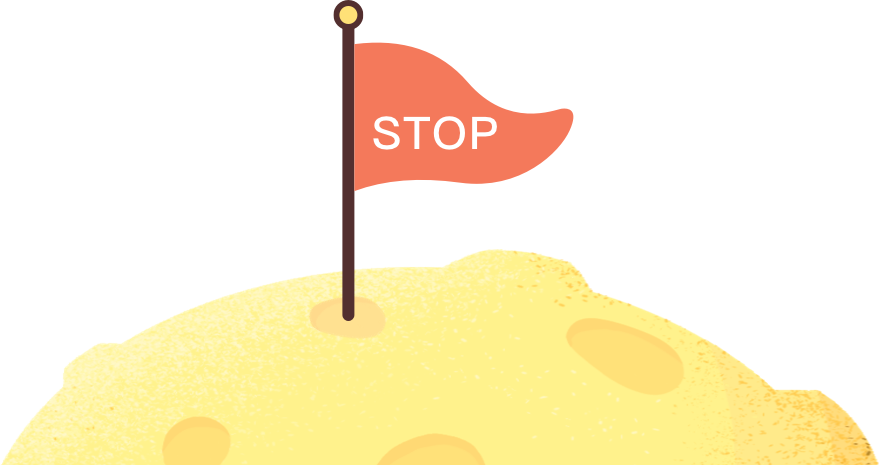
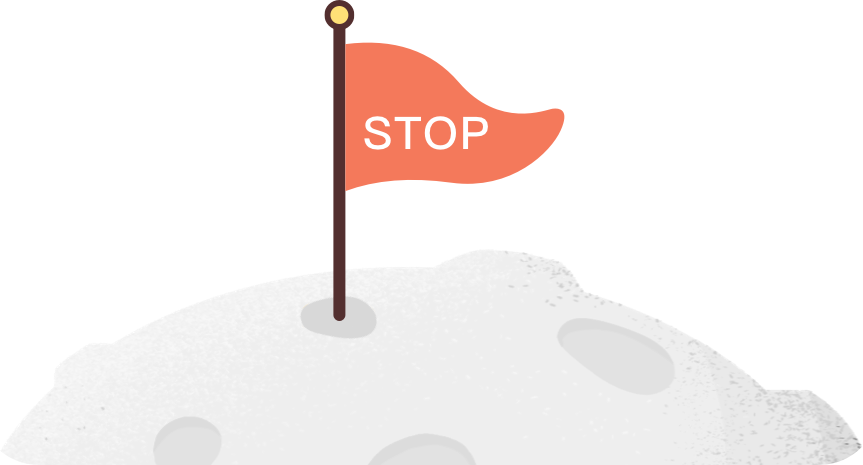
配色图片调整

diff --git a/src/components/vote/global/active-pause.vue b/src/components/vote/global/active-pause.vue
@@ -58,7 +58,7 @@ export default {
     justify-content: center;
     .active-stop-content {
       position: relative;
-      width: px2rem(586px);
+      width: px2rem(575px);
       border-radius: px2rem(8px);
       box-sizing: border-box;
       pointer-events: auto;
@@ -72,9 +72,9 @@ export default {
         font-weight: bold;
       }
       .img-bg {
-        width: px2rem(586px);
+        width: px2rem(575px);
         height: px2rem(310px);
-        @include img-retina('~@/assets/vote/active-pause@2x.png', '~@/assets/vote/active-pause@3x.png', px2rem(586px), px2rem(310px));
+        @include img-retina('~@/assets/vote/active-pause@2x.png', '~@/assets/vote/active-pause@3x.png', px2rem(575px), px2rem(310px));
         background-repeat: no-repeat;
         background-position: bottom;
       }

diff --git a/src/components/vote/global/active-stop.vue b/src/components/vote/global/active-stop.vue
@@ -59,7 +59,7 @@ export default {
     justify-content: center;
     .active-stop-content {
       position: relative;
-      width: px2rem(586px);
+      width: px2rem(575px);
       border-radius: px2rem(8px);
       box-sizing: border-box;
       pointer-events: auto;
@@ -78,9 +78,9 @@ export default {
         color: #666666;
       }
       .img-bg {
-        width: px2rem(586px);
+        width: px2rem(575px);
         height: px2rem(310px);
-        @include img-retina('~@/assets/vote/active-stop@2x.png', '~@/assets/vote/active-stop@3x.png', px2rem(586px), px2rem(310px));
+        @include img-retina('~@/assets/vote/active-stop@2x.png', '~@/assets/vote/active-stop@3x.png', px2rem(575px), px2rem(310px));
         background-repeat: no-repeat;
         background-position: bottom;
       }

diff --git a/src/components/vote/global/active-start.vue b/src/components/vote/global/active-start.vue
@@ -83,7 +83,7 @@ export default {
     justify-content: center;
     .active-stop-content {
       position: relative;
-      width: px2rem(586px);
+      width: px2rem(575px);
       border-radius: px2rem(8px);
       box-sizing: border-box;
       pointer-events: auto;
@@ -127,9 +127,9 @@ export default {
         }
       }
       .img-bg {
-        width: px2rem(586px);
+        width: px2rem(575px);
         height: px2rem(245px);
-        @include img-retina('~@/assets/vote/active-start@2x.png', '~@/assets/vote/active-start@3x.png', px2rem(586px), px2rem(245px));
+        @include img-retina('~@/assets/vote/active-start@2x.png', '~@/assets/vote/active-start@3x.png', px2rem(575px), px2rem(245px));
         background-repeat: no-repeat;
         background-position: bottom;
       }
